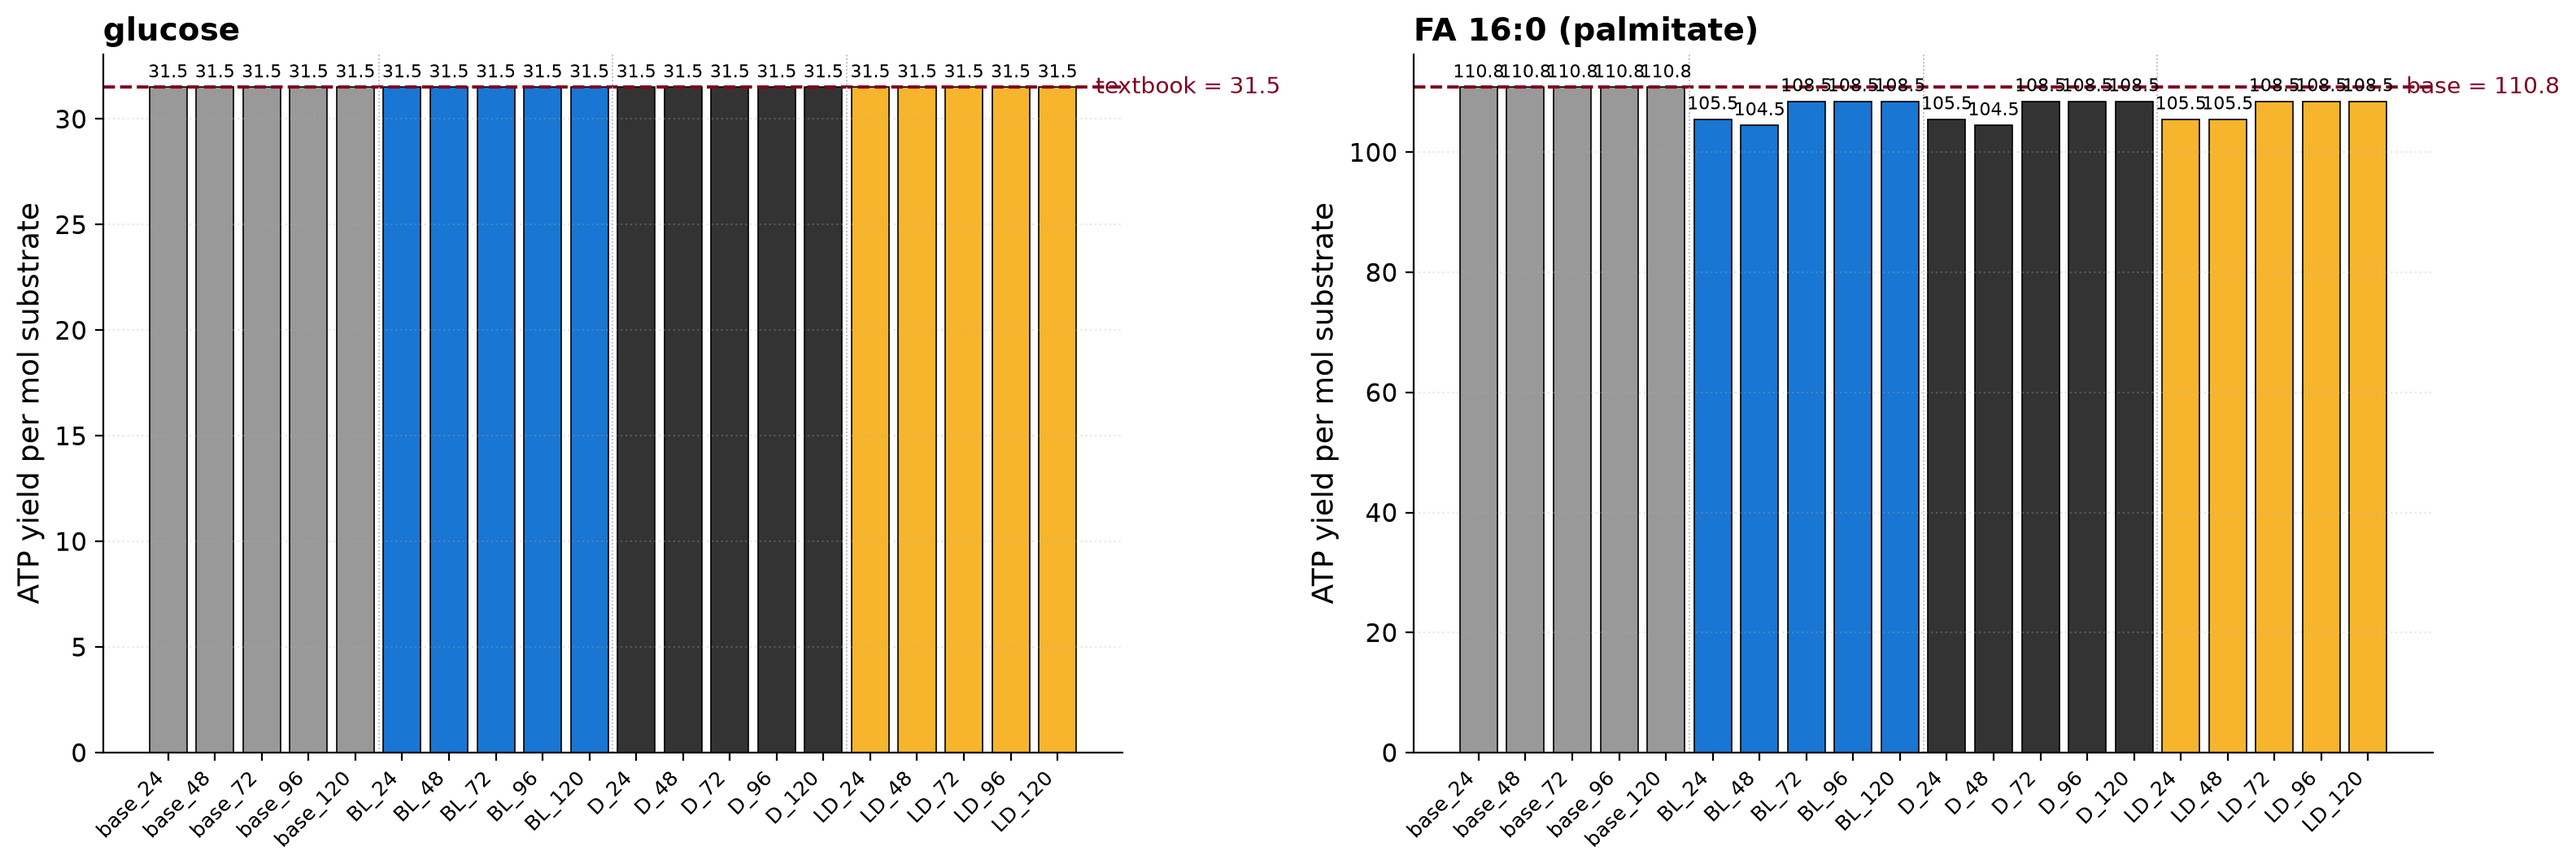
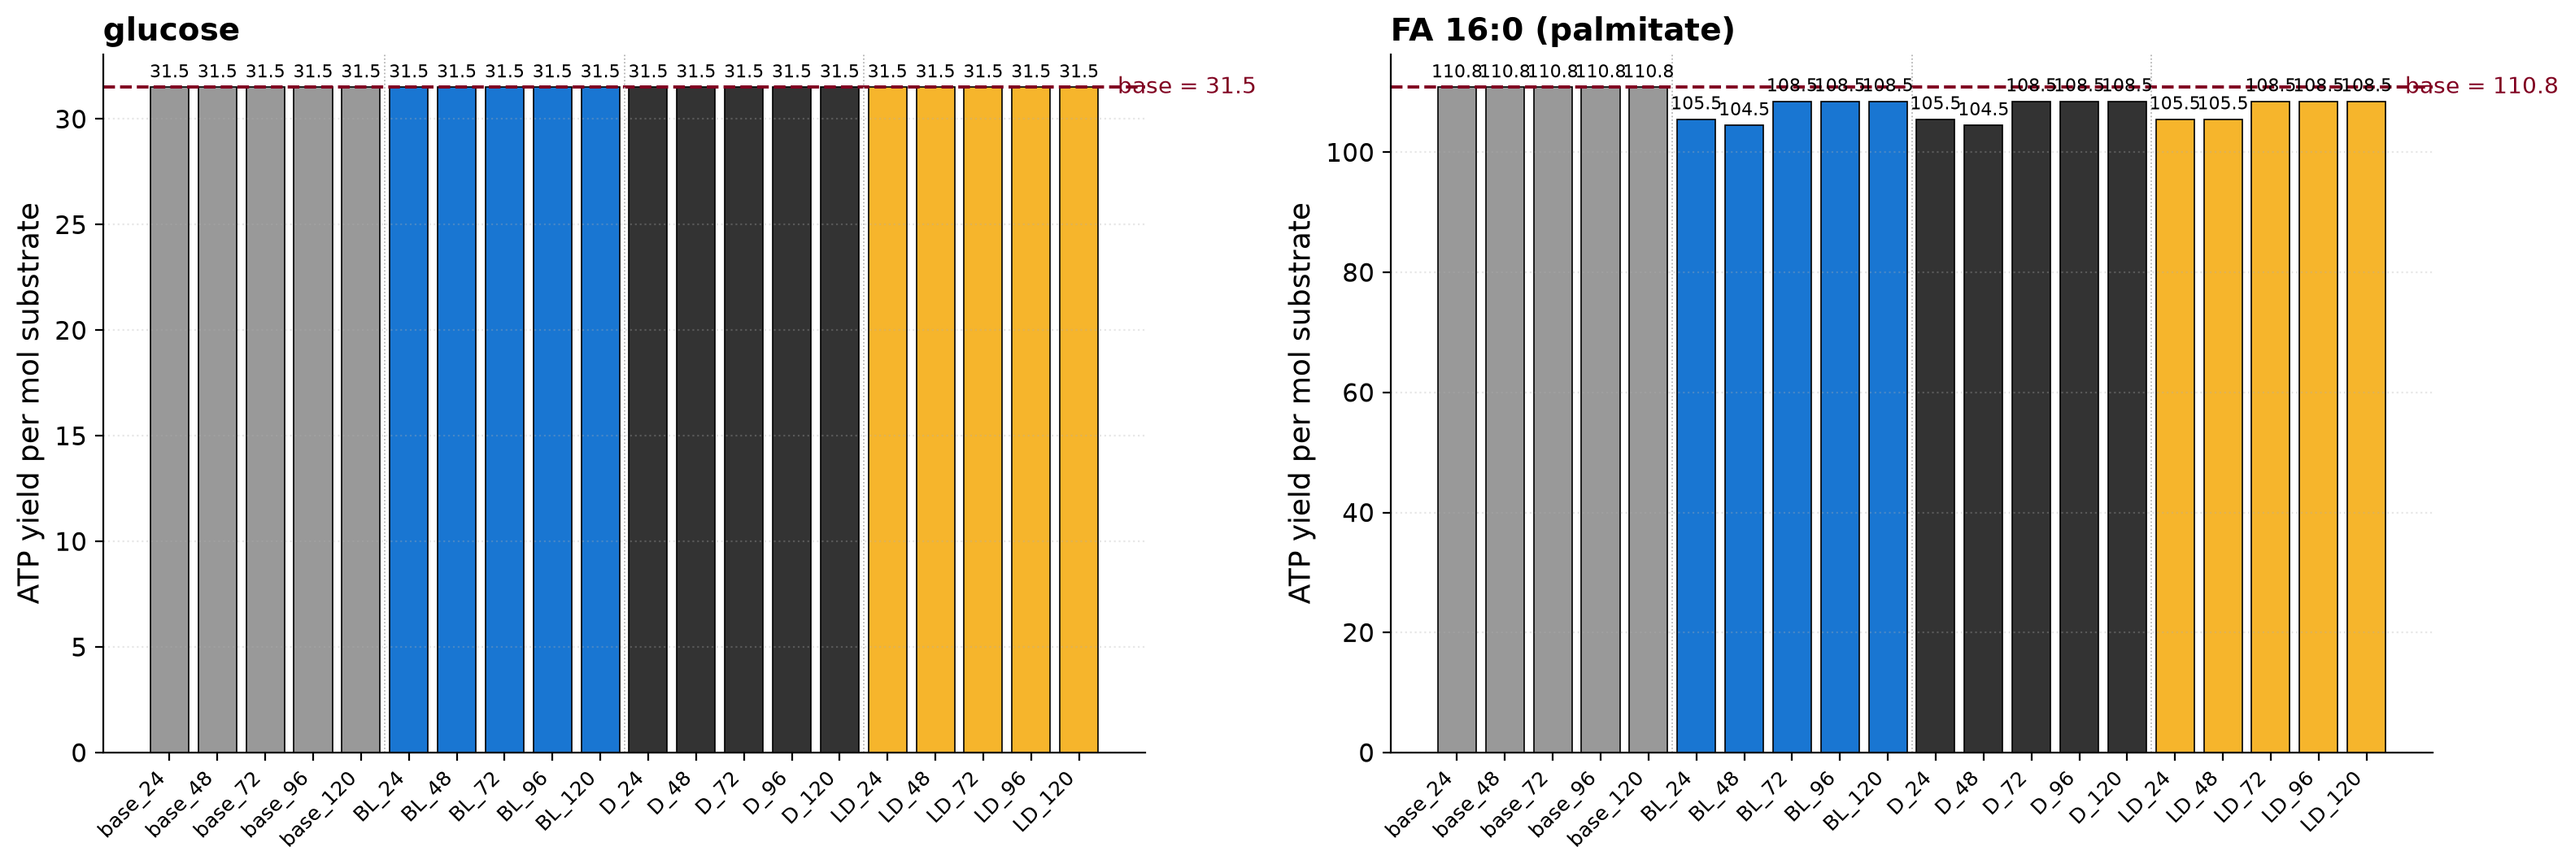
chapter: sanity bars — label as 'base =' not 'textbook =' (31.5 is Zebrafish1 base, not textbook)

Changed region(s): [[0.4953, 0.0, 0.9286, 0.9888], [0.031, 0.0618, 0.4953, 0.9888]]

diff --git a/pipeline/05_chapter/scripts/14c_sanity_bars.py b/pipeline/05_chapter/scripts/14c_sanity_bars.py
@@ -40,9 +40,9 @@ model_order = [f"base_{h}" for h in HPFS] + [f"{r}_{h}" for r in REGIMES for h i
 
 fig, axes = plt.subplots(1, 2, figsize=(16, 5.5))
 
-for ax, substrate, ref in [
-    (axes[0], "glucose", 31.5),
-    (axes[1], "FA 16:0 (palmitate)", None),
+for ax, substrate in [
+    (axes[0], "glucose"),
+    (axes[1], "FA 16:0 (palmitate)"),
 ]:
     # fuzzy-match palmitate in substrate names
     if substrate == "FA 16:0 (palmitate)":
@@ -59,17 +59,11 @@ for ax, substrate, ref in [
             colors.append(REGIME_COLORS[reg])
     x = np.arange(len(model_order))
     bars = ax.bar(x, data.values, color=colors, edgecolor="black", linewidth=0.6)
-    # reference line
-    if ref is not None:
-        ax.axhline(ref, color="#800020", linewidth=1.4, linestyle="--")
-        ax.text(len(x) - 0.5, ref, f"  textbook = {ref}", color="#800020",
-                 fontsize=10, va="center")
-    else:
-        # palmitate: use base_24 value as reference (full base yield)
-        ref_val = data["base_24"] if "base_24" in data.index else data.dropna().iloc[0]
-        ax.axhline(ref_val, color="#800020", linewidth=1.4, linestyle="--")
-        ax.text(len(x) - 0.5, ref_val, f"  base = {ref_val:.1f}",
-                 color="#800020", fontsize=10, va="center")
+    # reference line = base model yield (what we're comparing extracted models against)
+    ref_val = data["base_24"] if "base_24" in data.index else data.dropna().iloc[0]
+    ax.axhline(ref_val, color="#800020", linewidth=1.4, linestyle="--")
+    ax.text(len(x) - 0.5, ref_val, f"  base = {ref_val:.1f}",
+             color="#800020", fontsize=10, va="center")
 
     # label bars with their value above
     for b, v in zip(bars, data.values):
